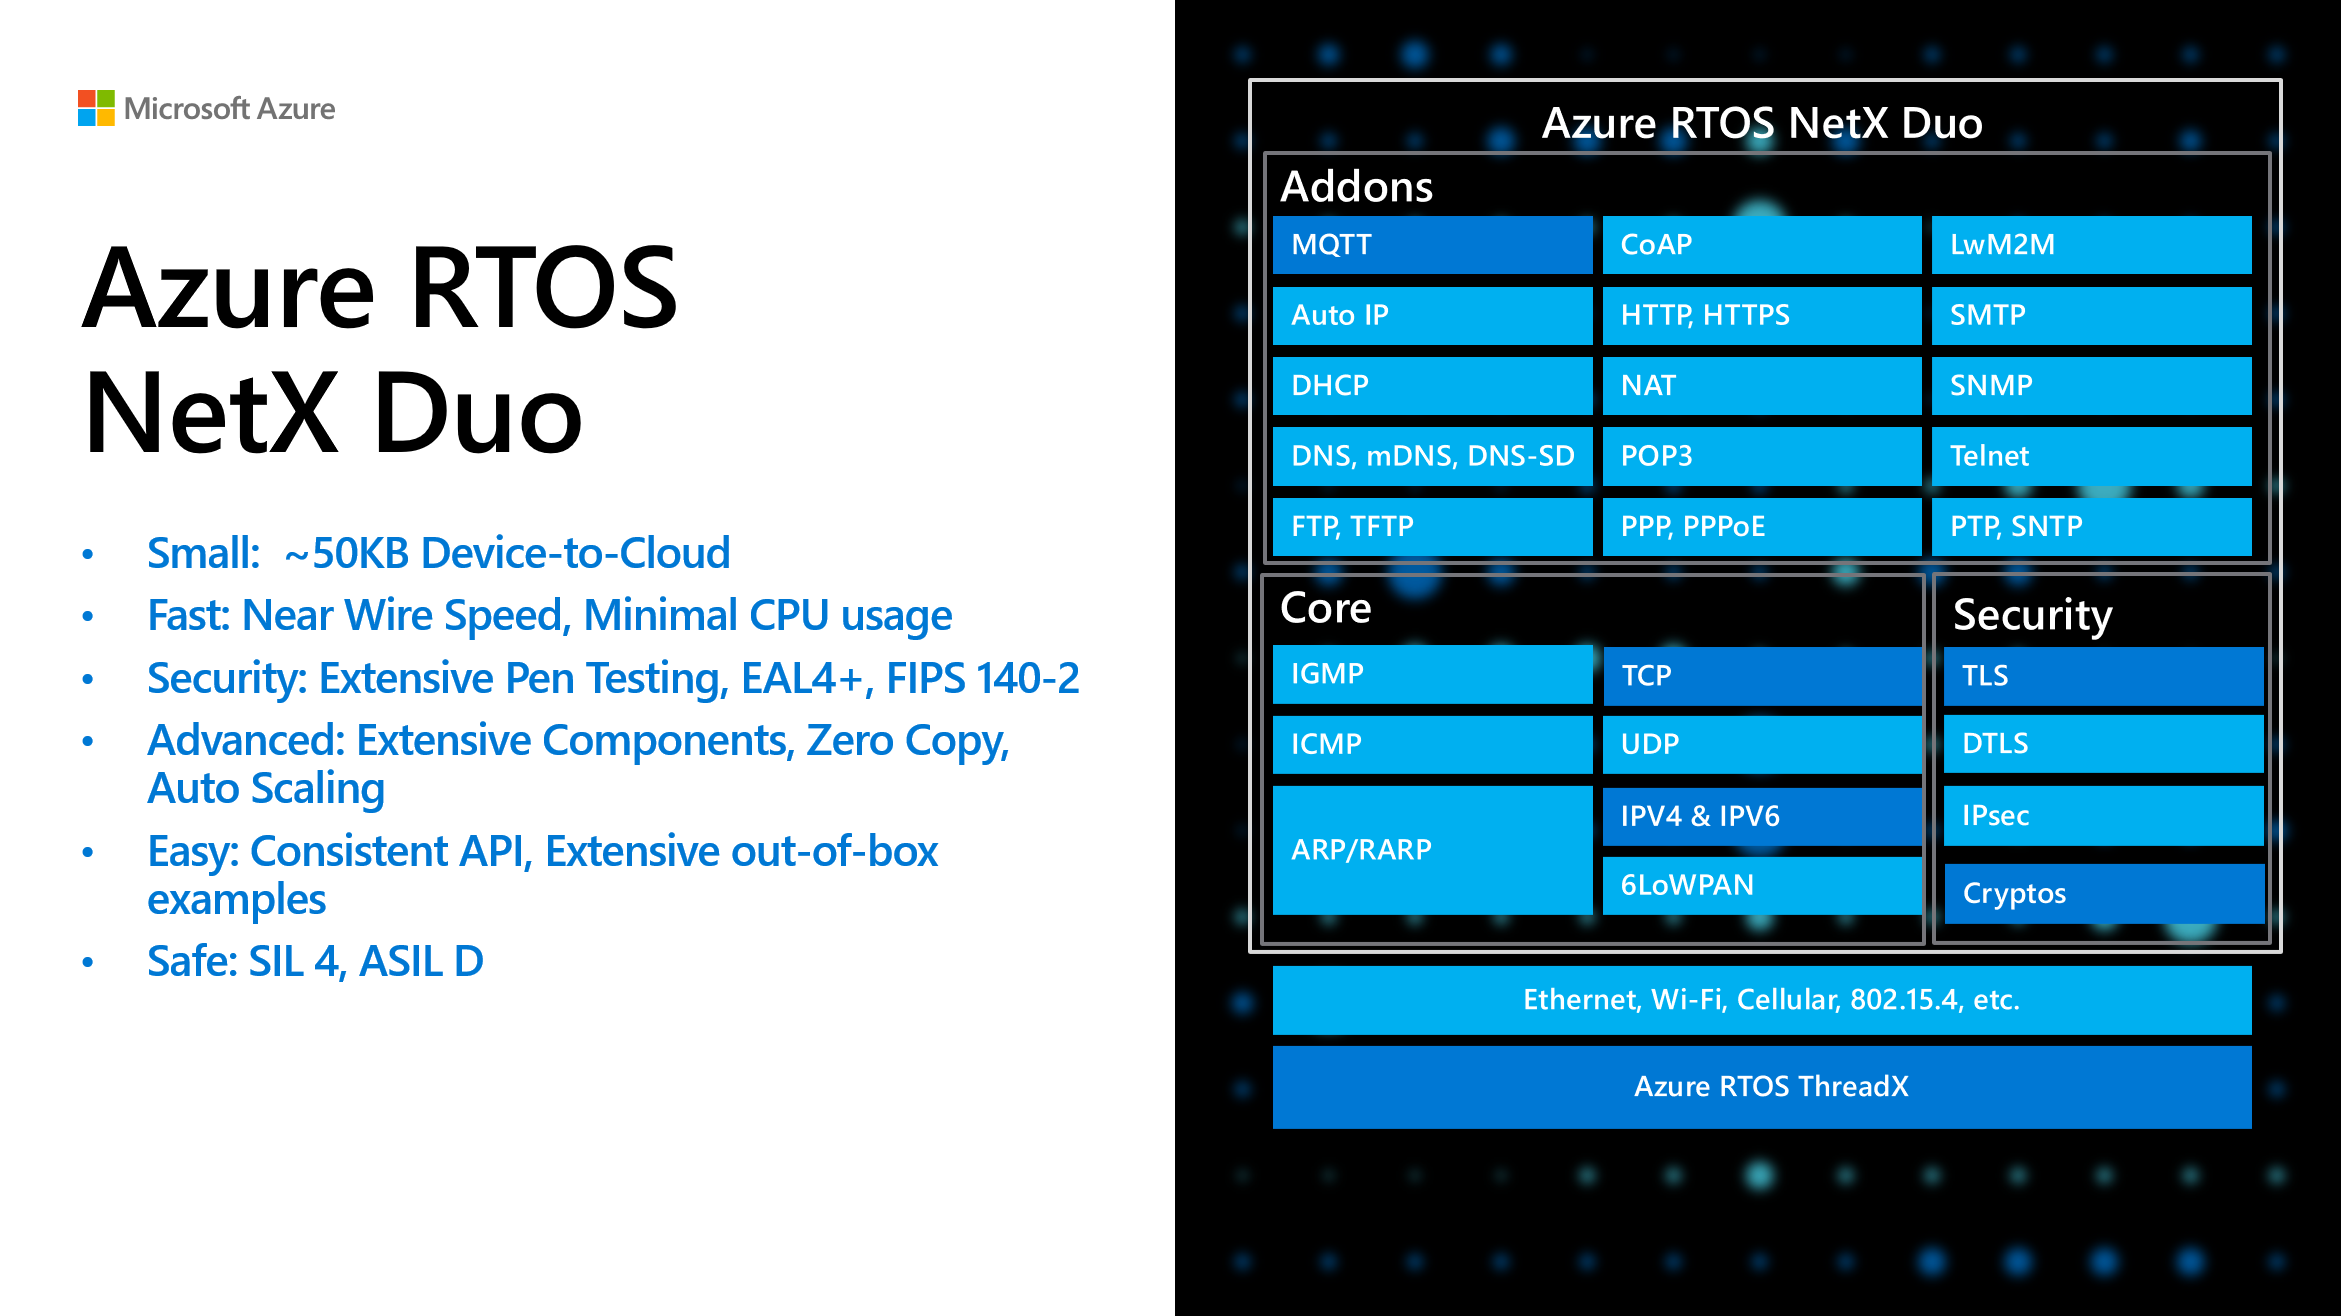
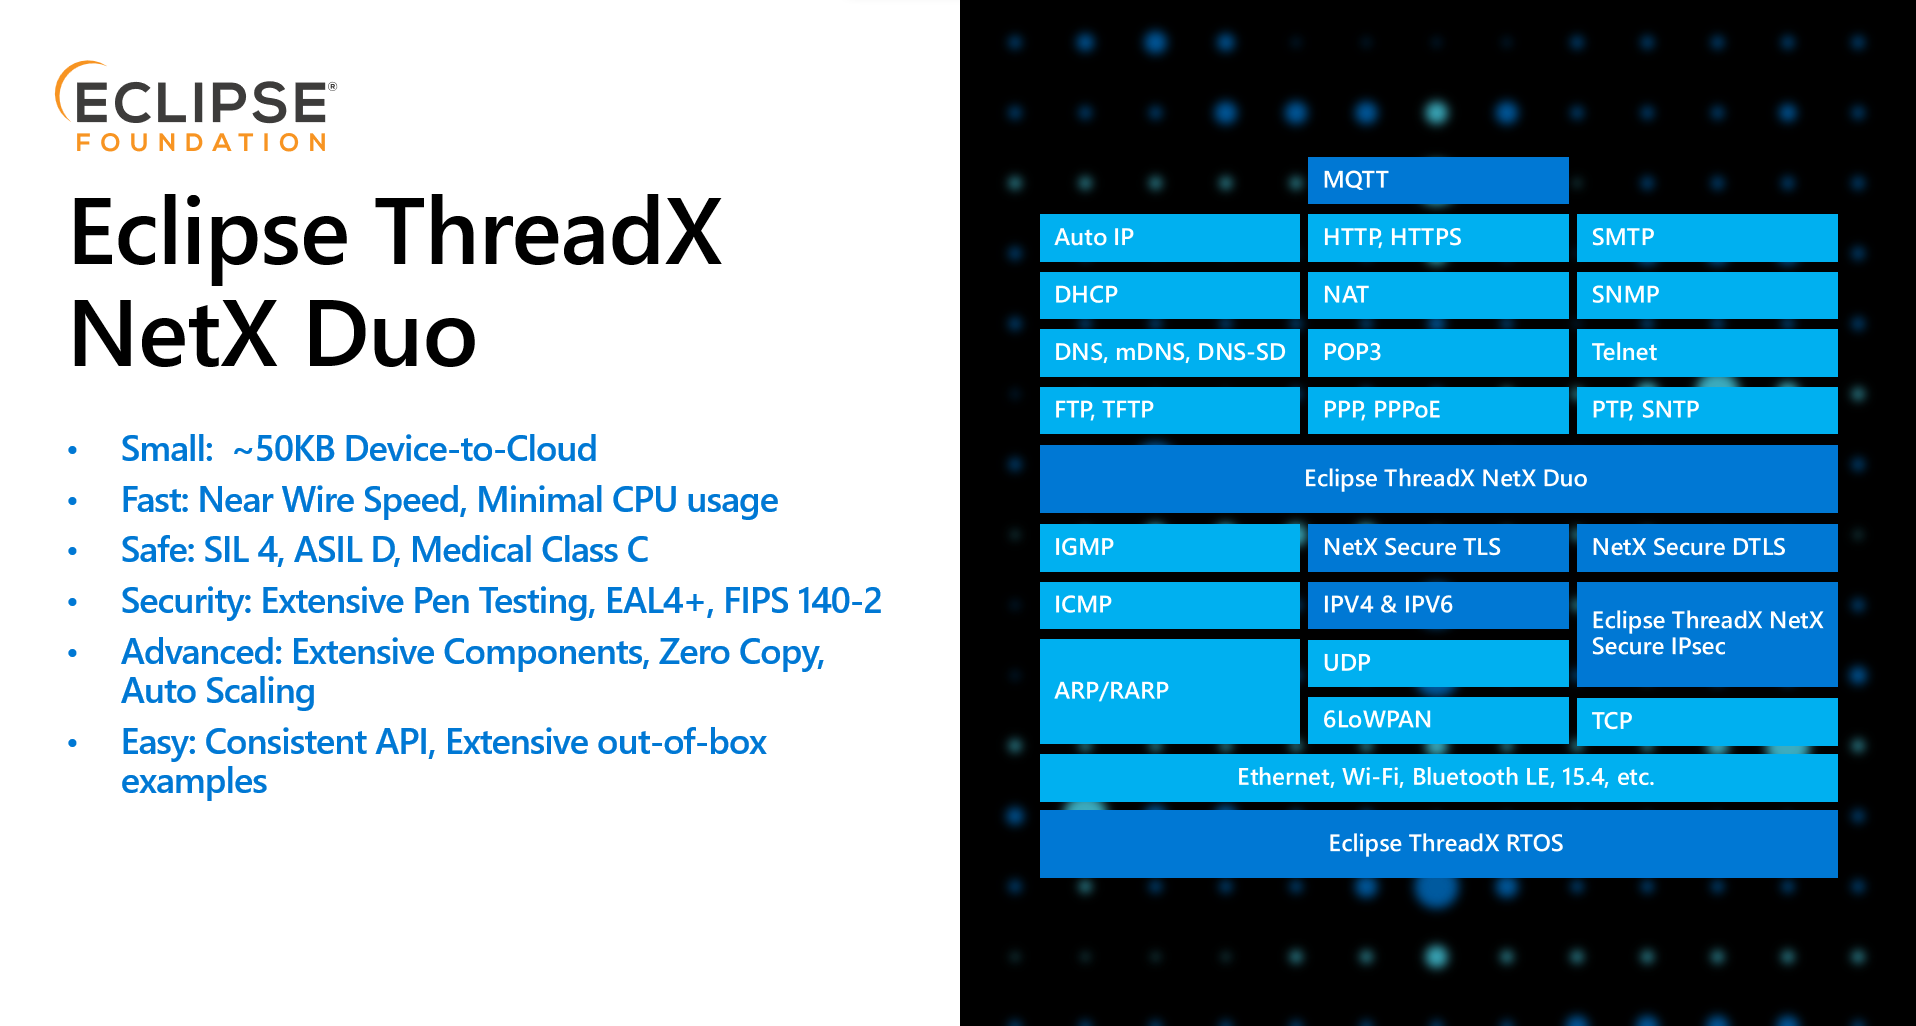
Merge pull request #248 from eclipse-threadx/wickste-patch-4
Update README.md

diff --git a/README.md b/README.md
@@ -1,6 +1,6 @@
-# Azure RTOS NetX Duo
+# Eclipse ThreadX NetX Duo
 
-This advanced, industrial-grade TCP/IP network stack is designed specifically for deeply embedded real-time and IoT applications. Azure RTOS NetX Duo is a dual IPv4 and IPv6 network stack, while Azure RTOS NetX is the original IPv4 network stack, essentially a subset of Azure RTOS NetX Duo.
+This advanced, industrial-grade TCP/IP network stack is designed specifically for deeply embedded real-time and IoT applications. Eclipse ThreadX NetX Duo is a dual IPv4 and IPv6 network stack.
 
 Here are the key features and modules of NetX Duo:
 
@@ -8,11 +8,11 @@ Here are the key features and modules of NetX Duo:
 
 ## Getting Started
 
-Azure RTOS NetX Duo as part of Azure RTOS has been integrated to the semiconductor's SDKs and development environment. You can develop using the tools of choice from [STMicro](https://www.st.com/content/st_com/en/campaigns/x-cube-azrtos-azure-rtos-stm32.html), [NXP](https://www.nxp.com/design/software/embedded-software/azure-rtos-for-nxp-microcontrollers:AZURE-RTOS), [Renesas](https://github.com/renesas/azure-rtos) and [Microchip](https://mu.microchip.com/get-started-simplifying-your-iot-design-with-azure-rtos).
+NetX Duo as part of Eclipse ThreadX has been integrated to the semiconductor's SDKs and development environment. You can develop using the tools of choice from [STMicro](https://www.st.com/content/st_com/en/campaigns/x-cube-azrtos-azure-rtos-stm32.html), [NXP](https://www.nxp.com/design/software/embedded-software/azure-rtos-for-nxp-microcontrollers:AZURE-RTOS), [Renesas](https://github.com/renesas/azure-rtos) and [Microchip](https://mu.microchip.com/get-started-simplifying-your-iot-design-with-azure-rtos).
 
 We also provide [getting started guide](https://github.com/eclipse-threadx/getting-started) and [samples](https://github.com/eclipse-threadx/samples) using hero development boards from semiconductors you can build and test with.
 
-See [Overview of Azure RTOS NetX Duo](https://learn.microsoft.com/azure/rtos/netx-duo/overview-netx-duo) for the high-level overview, and all documentation and APIs can be found in: [Azure RTOS NetX Duo documentation](https://learn.microsoft.com/azure/rtos/netx-duo/).
+See [Overview of Eclipse ThreadX NetX Duo](https://github.com/eclipse-threadx/rtos-docs/blob/main/rtos-docs/netx-duo/overview-netx-duo.md) for the high-level overview.
 
 ## Repository Structure and Usage
 
@@ -85,23 +85,15 @@ The master branch has the most recent code with all new features and bug fixes. 
 
 ## Protocols and connectivity
 
-Protocols and connectivity support are provided as addon modules within NetX Duo in `addons` folder. Some key modules are: [**azure_iot**](https://github.com/eclipse-threadx/netxduo/tree/master/addons/azure_iot), [**dhcp**](https://learn.microsoft.com/azure/rtos/netx-duo/netx-duo-dhcp-client/chapter1), [**dns**](https://learn.microsoft.com/azure/rtos/netx-duo/netx-duo-dns/chapter1), [**ftp**](https://learn.microsoft.com/azure/rtos/netx-duo/netx-duo-dns/chapter1), [**http**](https://learn.microsoft.com/azure/rtos/netx-duo/netx-duo-http/chapter1), [**mqtt**](https://learn.microsoft.com/azure/rtos/netx-duo/netx-duo-mqtt/chapter1), [**pop3**](https://learn.microsoft.com/azure/rtos/netx-duo/netx-duo-pop3-client/chapter1), [**ppp**](https://learn.microsoft.com/azure/rtos/netx-duo/netx-duo-ppp/chapter1), [**rtp**](https://learn.microsoft.com/en-us/azure/rtos/netx-duo/netx-duo-rtp/chapter1), [**rtsp**](https://learn.microsoft.com/en-us/azure/rtos/netx-duo/netx-duo-rtsp/chapter1), [**sntp**](https://learn.microsoft.com/azure/rtos/netx-duo/netx-duo-sntp-client/chapter1), and [**web**](https://learn.microsoft.com/azure/rtos/netx-duo/netx-duo-web-http/chapter1). For a full list of NetX Duo addons, you can find in the same [Azure RTOS NetX Duo documentation](https://learn.microsoft.com/azure/rtos/netx-duo/).
+Protocols and connectivity support are provided as addon modules within NetX Duo in `addons` folder. Some key modules are: [**azure_iot**](https://github.com/eclipse-threadx/netxduo/tree/master/addons/azure_iot), [**dhcp**](https://github.com/eclipse-threadx/rtos-docs/blob/main/rtos-docs/netx-duo/netx-duo-dhcp-client/chapter1.md), [**dns**](https://github.com/eclipse-threadx/rtos-docs/blob/main/rtos-docs/netx-duo/netx-duo-dns/chapter1.md), [**ftp**](https://github.com/eclipse-threadx/rtos-docs/blob/main/rtos-docs/netx-duo/netx-duo-ftp/chapter1.md), [**http**](https://github.com/eclipse-threadx/rtos-docs/blob/main/rtos-docs/netx-duo/netx-duo-http/Chapter1.md), [**mqtt**](https://github.com/eclipse-threadx/rtos-docs/blob/main/rtos-docs/netx-duo/netx-duo-mqtt/chapter1.md), [**pop3**](https://github.com/eclipse-threadx/rtos-docs/blob/main/rtos-docs/netx-duo/netx-duo-pop3-client/chapter1.md), [**ppp**](https://github.com/eclipse-threadx/rtos-docs/blob/main/rtos-docs/netx-duo/netx-duo-ppp/chapter1.md), [**rtp**](https://github.com/eclipse-threadx/rtos-docs/blob/main/rtos-docs/netx-duo/netx-duo-rtp/chapter1.md), [**rtsp**](https://github.com/eclipse-threadx/rtos-docs/blob/main/rtos-docs/netx-duo/netx-duo-rtsp/chapter1.md), [**sntp**](https://github.com/eclipse-threadx/rtos-docs/blob/main/rtos-docs/netx-duo/netx-duo-sntp-client/chapter1.md), and [**web**](https://github.com/eclipse-threadx/rtos-docs/blob/main/rtos-docs/netx-duo/netx-duo-telnet/chapter1.md). For a full list of NetX Duo addons, you can find in the same [Eclipse ThreadX NetX Duo documentation](https://github.com/eclipse-threadx/rtos-docs/blob/main/rtos-docs/netx-duo/overview-netx-duo.md).
 
 ### Samples
 
 We provide sample codes about how to use various addons in the [`samples`](./samples/) folder.
 
-### Azure IoT Middleware for Azure RTOS
-
-[Azure IoT Middleware for Azure RTOS](https://github.com/eclipse-threadx/netxduo/tree/master/addons/azure_iot) (a.k.a IoT Middleware) is a platform specific library that acts as a binding layer between the Azure RTOS and the [Azure SDK for Embedded C](https://github.com/Azure/azure-sdk-for-c). It simplifies building device application that connects to Azure IoT services.
-
-The IoT Middleware also includes built-in support for:
-
-- **[Device Update for IoT Hub](https://learn.microsoft.com/azure/iot-hub-device-update/device-update-azure-real-time-operating-system)**: an Azure service for IoT devices to enable the over-the-air (OTA) updates easily.
-
 ## Component dependencies
 
-The main components of Azure RTOS are each provided in their own repository, but there are dependencies between them, as shown in the following graph. This is important to understand when setting up your builds.
+The main components of Eclipse ThreadX are each provided in their own repository, but there are dependencies between them, as shown in the following graph. This is important to understand when setting up your builds.
 
 ![dependency graph](docs/deps.png)
 
@@ -109,7 +101,7 @@ The main components of Azure RTOS are each provided in their own repository, but
 
 ### Building and using the library
 
-Instruction for building the NetX Duo as static library using Arm GNU Toolchain and CMake. If you are using toolchain and IDE from semiconductor, you might follow its own instructions to use Azure RTOS components as explained in the [Getting Started](#getting-started) section.
+Instruction for building the NetX Duo as static library using Arm GNU Toolchain and CMake. If you are using toolchain and IDE from semiconductor, you might follow its own instructions to use Eclipse ThreadX components as explained in the [Getting Started](#getting-started) section.
 
 1. Install the following tools:
 
@@ -129,7 +121,7 @@ Instruction for building the NetX Duo as static library using Arm GNU Toolchain 
 
 1. Building as a static library
 
-    Each component of Azure RTOS comes with a composable CMake-based build system that supports many different MCUs and host systems. Integrating any of these components into your device app code is as simple as adding a git submodule and then including it in your build using the CMake `add_subdirectory()`.
+    Each component of Eclipse ThreadX comes with a composable CMake-based build system that supports many different MCUs and host systems. Integrating any of these components into your device app code is as simple as adding a git submodule and then including it in your build using the CMake `add_subdirectory()`.
 
     While the typical usage pattern is to include NetX Duo into your device code source tree to be built & linked with your code, you can compile this project as a standalone static library to confirm your build is set up correctly.
 
@@ -141,31 +133,23 @@ Instruction for building the NetX Duo as static library using Arm GNU Toolchain 
     $ cmake --build ./build
     ```
 
-## Professional support
-
-[Professional support plans](https://azure.microsoft.com/support/options/) are available from Microsoft. For community support and others, see the [Resources](#resources) section below.
-
 ## Licensing
 
-License terms for using Azure RTOS are defined in the LICENSE.txt file of this repo. Please refer to this file for all definitive licensing information. No additional license fees are required for deploying Azure RTOS on hardware defined in the [LICENSED-HARDWARE.txt](./LICENSED-HARDWARE.txt) file. If you are using hardware not listed in the file or having licensing questions in general, please contact Microsoft directly at https://aka.ms/azrtos-license.
+License terms for using Eclipse ThreadX are defined in the LICENSE.txt file of this repo. Please refer to this file for all definitive licensing information. 
 
 ## Resources
 
-The following are references to additional Azure RTOS resources:
+The following are references to additional Eclipse ThreadX resources:
 
-- **Product introduction and white papers**: https://azure.com/rtos
-- **General technical questions**: https://aka.ms/QnA/azure-rtos
+- **Product introduction**: https://github.com/eclipse-threadx/rtos-docs
 - **Product issues and bugs, or feature requests**: https://github.com/eclipse-threadx/netxduo/issues
-- **Licensing and sales questions**: https://aka.ms/azrtos-license
-- **Product roadmap and support policy**: https://aka.ms/azrtos/lts
-- **Blogs and videos**: http://msiotblog.com and https://aka.ms/iotshow
-- **Azure RTOS TraceX Installer**: https://aka.ms/azrtos-tracex-installer
+- **TraceX Installer**: https://aka.ms/azrtos-tracex-installer
 
 You can also check [previous questions](https://stackoverflow.com/questions/tagged/threadx-rtos+netxduo) or ask new ones on StackOverflow using the `threadx-rtos` and `netxduo` tags.
 
 ## Security
 
-Azure RTOS provides OEMs with components to secure communication and to create code and data isolation using underlying MCU/MPU hardware protection mechanisms. It is ultimately the responsibility of the device builder to ensure the device fully meets the evolving security requirements associated with its specific use case.
+Eclipse ThreadX provides OEMs with components to secure communication and to create code and data isolation using underlying MCU/MPU hardware protection mechanisms. It is ultimately the responsibility of the device builder to ensure the device fully meets the evolving security requirements associated with its specific use case.
 
 ## Contribution
 
